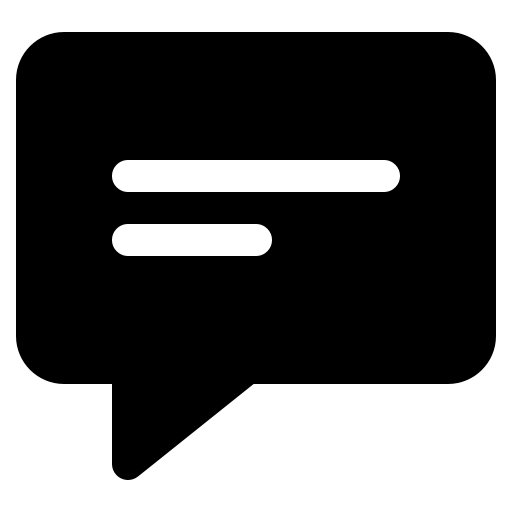
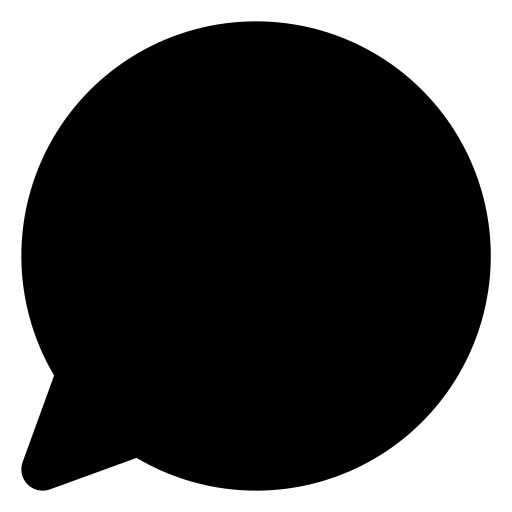
main contents done

diff --git a/index.html b/index.html
@@ -7,8 +7,6 @@
     <title>Dashboard Project</title>
 </head>
 <body>
-    <div class="container">
-
         <nav>
 
             <div class="logo">
@@ -26,7 +24,7 @@
                     <a href="#">Profile</a>
                 </li>
                 <li>
-                    <img src="resources/comment.png" alt="">
+                    <img src="resources/messages.png" alt="">
                     <a href="#">Messages</a>
                 </li>
                 <li>
@@ -102,31 +100,78 @@
         <main>
 
             <article>
-                <div class="cards card1">
-                    I am card1
-                </div>
-                <div class="cards card2">
-                    I am card2
-                </div>
-                <div class="cards card3">
-                    I am card3
-                </div>
-                <div class="cards card4">
-                    I am card4
-                </div>
-                <div class="cards card5">
-                    I am card5
-                </div>
-                <div class="cards card6">
-                    I am card6
+                <h2 class="article-title">Your Projects</h2>
+
+                <div class="article-contents">
+                    <div class="cards card1">
+                        <p class="project-title">Super Cool Project</p>
+                        <p class="project-description">Lorem ipsum dolor sit amet consectetur, adipisicing elit. Hic rem maxime mollitia optio, a dolorum, earum harum ab facilis iusto officia doloribus perspiciatis.</p>
+                        <div class="interactions">
+                            <img src="resources/like-white.png" alt="Like">
+                            <img src="resources/comment-white.png" alt="Like">
+                            <img src="resources/share-white.png" alt="Like">
+                        </div>
+                    </div>
+                    <div class="cards card2">
+                        <p class="project-title">Less Cool Project</p>
+                        <p class="project-description">Lorem ipsum dolor sit amet consectetur, adipisicing elit. Hic rem maxime mollitia optio, a dolorum, earum harum ab facilis iusto officia doloribus perspiciatis.</p>
+                        <div class="interactions">
+                            <img src="resources/like-white.png" alt="Like">
+                            <img src="resources/comment-white.png" alt="Like">
+                            <img src="resources/share-white.png" alt="Like">
+                        </div>
+                    </div>
+                    <div class="cards card3">
+                        <p class="project-title">Impossible App</p>
+                        <p class="project-description">Lorem ipsum dolor sit amet consectetur, adipisicing elit. Hic rem maxime mollitia optio, a dolorum, earum harum ab facilis iusto officia doloribus perspiciatis.</p>
+                        <div class="interactions">
+                            <img src="resources/like-white.png" alt="Like">
+                            <img src="resources/comment-white.png" alt="Like">
+                            <img src="resources/share-white.png" alt="Like">
+                        </div>
+                    </div>
+                    <div class="cards card4">
+                        <p class="project-title">Easy Peasy App</p>
+                        <p class="project-description">Lorem ipsum dolor sit amet consectetur, adipisicing elit. Hic rem maxime mollitia optio, a dolorum, earum harum ab facilis iusto officia doloribus perspiciatis.</p>
+                        <div class="interactions">
+                            <img src="resources/like-white.png" alt="Like">
+                            <img src="resources/comment-white.png" alt="Like">
+                            <img src="resources/share-white.png" alt="Like">
+                        </div>
+                    </div>
+                    <div class="cards card5">
+                        <p class="project-title">Ad Blocker</p>
+                        <p class="project-description">Lorem ipsum dolor sit amet consectetur, adipisicing elit. Hic rem maxime mollitia optio, a dolorum, earum harum ab facilis iusto officia doloribus perspiciatis.</p>
+                        <div class="interactions">
+                            <img src="resources/like-white.png" alt="Like">
+                            <img src="resources/comment-white.png" alt="Like">
+                            <img src="resources/share-white.png" alt="Like">
+                        </div>
+                    </div>
+                    <div class="cards card6">
+                        <p class="project-title">Money Making App</p>
+                        <p class="project-description">Lorem ipsum dolor sit amet consectetur, adipisicing elit. Hic rem maxime mollitia optio, a dolorum, earum harum ab facilis iusto officia doloribus perspiciatis.</p>
+                        <div class="interactions">
+                            <img src="resources/like-white.png" alt="Like">
+                            <img src="resources/comment-white.png" alt="Like">
+                            <img src="resources/share-white.png" alt="Like">
+                        </div>
+                    </div>        
                 </div>
             </article>
 
             <aside>
-                this is aside
+                <div class="announcements">
+                    <h2 class="announcements-title">Announcements</h2>
+
+                </div>
+
+                <div class="trending">
+                    <h2 class="trending-title">Trending</h2>
+
+                </div>
             </aside>
 
         </main>
-    </div>
 </body>
 </html>

diff --git a/styles.css b/styles.css
@@ -12,7 +12,7 @@ html {
     font-family: 'Poppins', sans-serif;
 }
 
-.container {
+body {
     display: grid;
     grid-template-columns: 1fr 5fr;
     grid-template-rows: auto 1fr;
@@ -39,13 +39,22 @@ header {
     justify-items: start;
 }
 
+.search {
+    display: grid;
+    grid-template-columns: 1fr 20fr;
+    justify-items: center;
+    grid-gap: 10px;
+    margin-left: 1rem;
+}
+
 label {
     display: grid;
     place-items: center;
 }
 
 input {
-    width: 100%;
+    justify-self: start;
+    width: 80%;
     border-radius: 25px 25px;
     padding-left: 0.5rem;
     font-size: 1.5rem;
@@ -67,14 +76,6 @@ input:focus {
     width: 100px;
     height: auto;
     border-radius: 50%;
-}
-
-.search {
-    display: grid;
-    grid-template-columns: 1fr 20fr;
-    justify-items: center;
-    grid-gap: 10px;
-    margin-left: 1rem;
 }
 
 .notifications {
@@ -115,7 +116,7 @@ input:focus {
 
 .create-content button {
     height: 2.5rem;
-    width: 150px;
+    width: 100px;
     border-radius: 20px;
     background-color: #a855f7;
     cursor: pointer;
@@ -133,17 +134,17 @@ nav {
     grid-area: nav;
 
     display: grid;
-    grid-template-rows: repeat(3, auto);
+    grid-template-rows: repeat(3, max-content);
     padding: 1rem;
-    grid-gap: 3rem;
+    grid-gap: 2rem;
     background-color: #701a75;
 }
 
 nav ul {
     list-style-type: none;
     display: grid;
-    font-size: 1.5rem;
-    grid-gap: 1.5rem;
+    font-size: 1.2rem;
+    grid-gap: 1rem;
 }
 
 ul li {
@@ -152,6 +153,14 @@ ul li {
     border-radius: 8px;
     transition: all 0.2s;
 }
+
+/* ul li --this does as above code-- {
+    display: grid;
+    grid-template-columns: auto 1fr;
+    align-items: center;
+    border-radius: 8px;
+    transition: all 0.2s;
+} */
 
 ul li img {
     height: 1.5rem;
@@ -197,15 +206,6 @@ nav #title {
     color: #f3e8ff;
 }
 
-/* header, nav, main, aside {
-    width: 100%;
-    background-color: #a855f7;
-} */
-
-*{
-    outline: 1px solid black;
-}
-
 main {
     grid-area: main;
     
@@ -214,15 +214,60 @@ main {
     grid-gap: 15px;
 }
 /* --- --- --- --- MAIN CONTENTS --- --- --- --- */
-article {
+.article-contents {
     display: grid;
-    grid-template-columns: repeat(auto-fit, minmax(250px, 1fr));
+    grid-template-columns: repeat(auto-fit, minmax(300px, 1fr));
+    grid-auto-rows: 250px;
     grid-gap: 15px;
     justify-items: center;
     align-content: center;
+    padding-left: 2.5rem;
+
+}
+
+.article-title{
+    padding-left: 2.5rem;
+}
+
+.project-title {
+    font-size: 1.2rem;
+    font-weight: 700;
 }
 
 .cards {
-    width: 100px;
-    height: 100px;
+    height: 250px;
+    padding: 1.5rem;
+    border-radius: 12px;
+    background-color: #c084fc;
+    display: grid;
+    border-left: 10px solid #701a75;
+    transition: all 0.3s;
+}
+
+.cards:hover {
+    scale: 1.05;
+    cursor: pointer;
+    background-color: #fcd34d;
+}
+
+.cards .project-description {
+    white-space: wrap;
+    overflow: hidden;
+    text-overflow: ellipsis;
+    text-align: justify;
+}
+
+.interactions img {
+    width: 25px;
+}
+
+.interactions {
+    display: grid;
+    grid-template-columns: repeat(3, max-content);
+    grid-gap: 10px;
+    justify-content: end;
+}
+
+*{
+    /* outline: 1px solid black; */
 }
